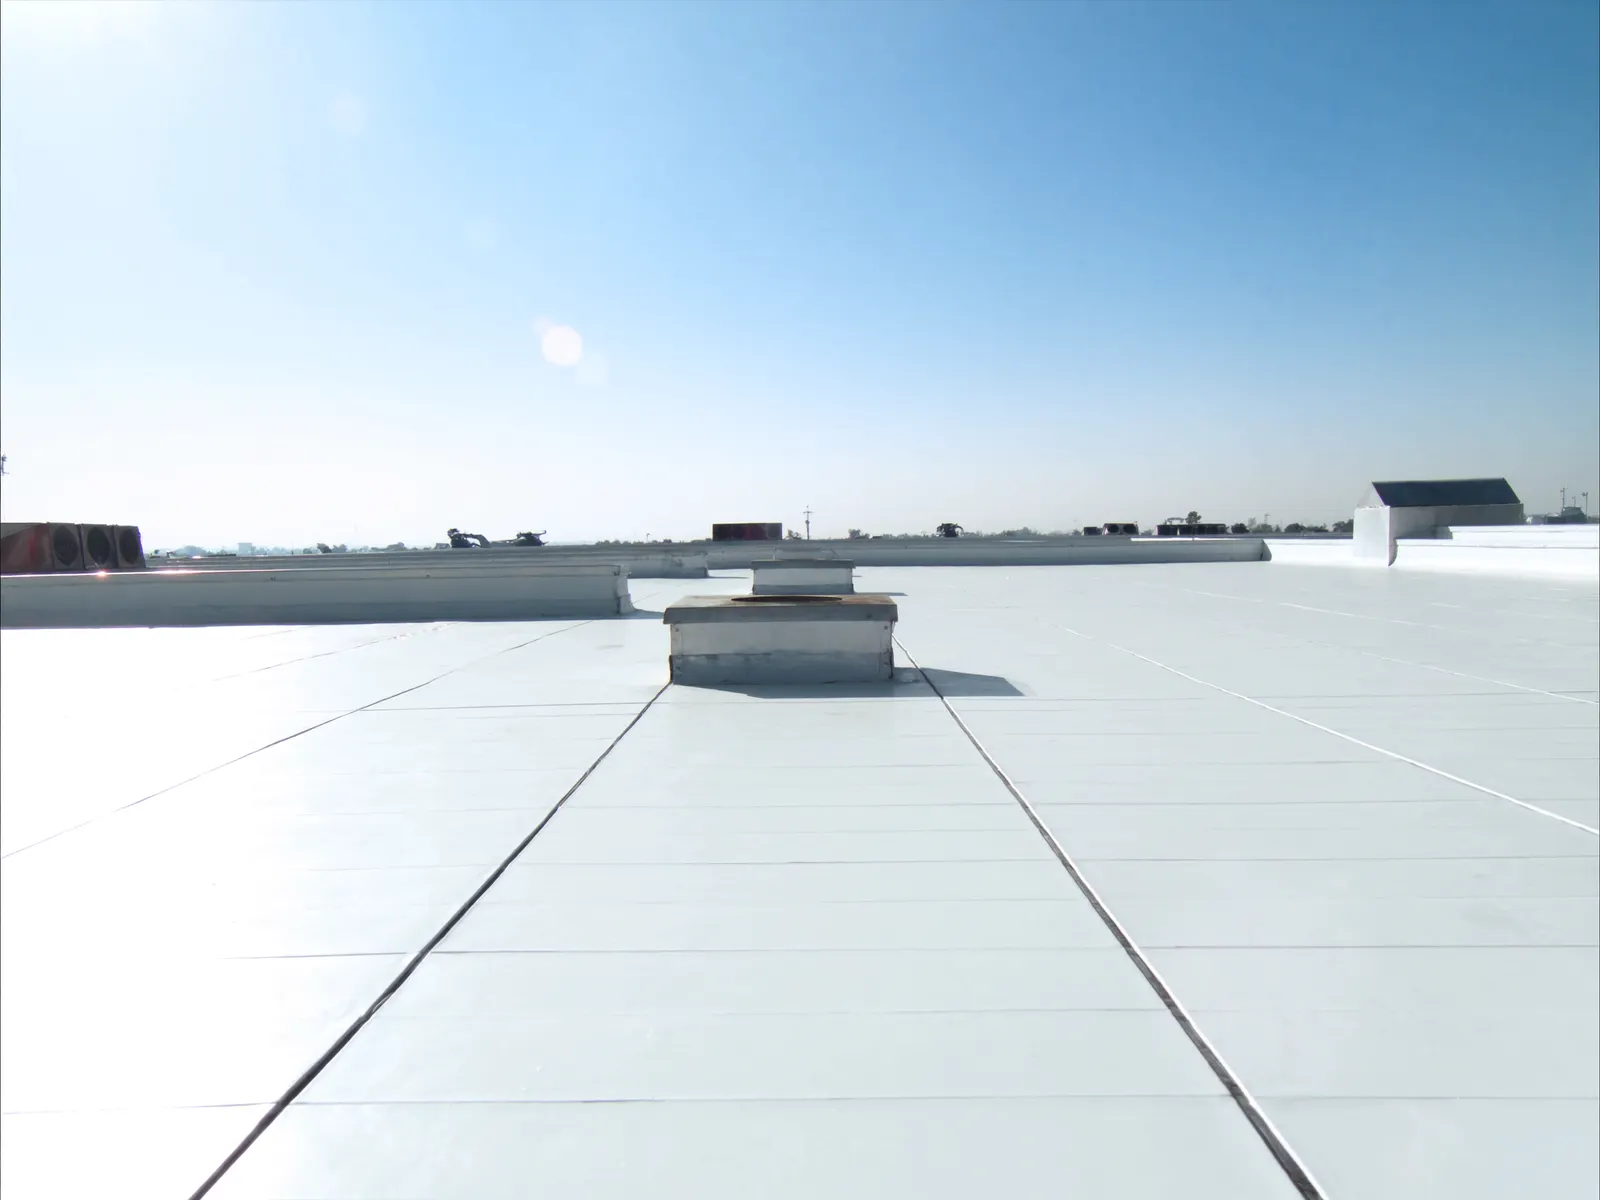
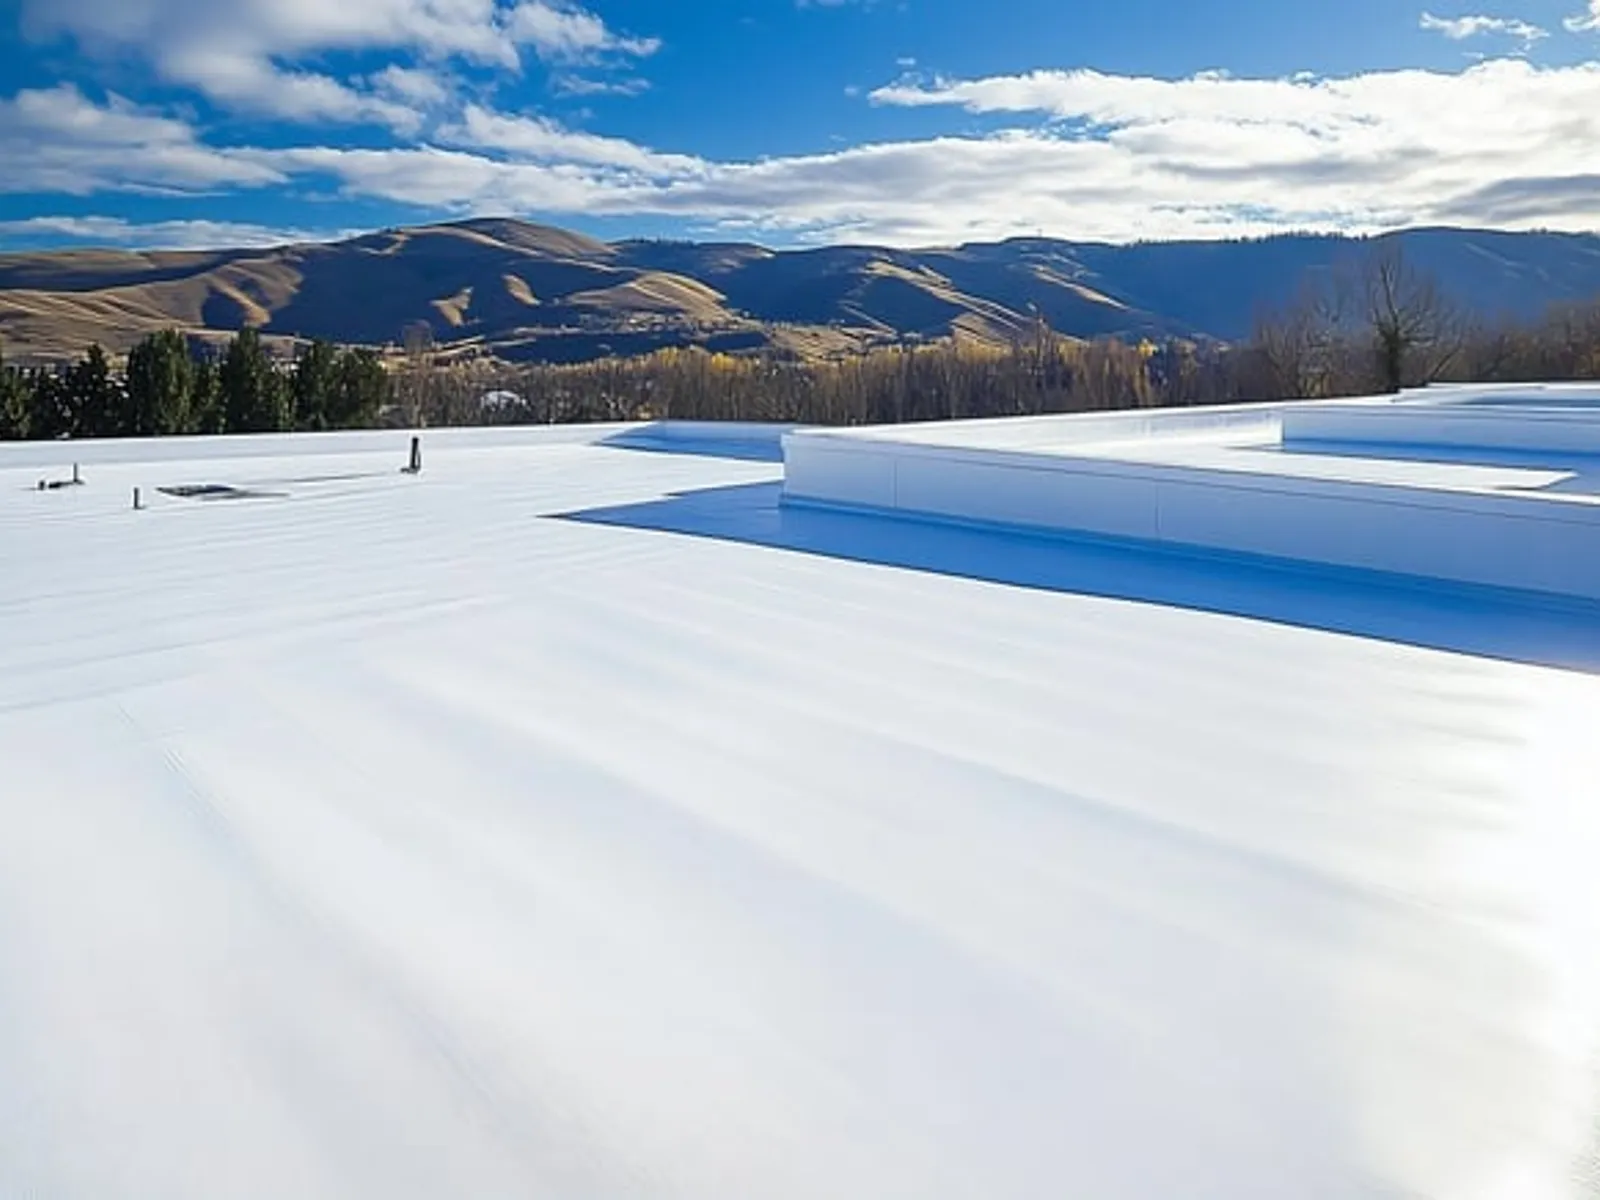
Service images: modified bitumen, PVC, commercial roof-replacement
Final three service-slot photos placed (owner-sourced): Polyglass
modified-bitumen membrane roof, white PVC single-ply in large welded
sheets, and a torch-down crew scene for commercial roof replacement.
All service-image slots now carry real product/marketing photography.

Claude-Session: https://claude.ai/code/session_0148j9icQsuYbw3TLjZbF6RA

diff --git a/src/content/service-images.ts b/src/content/service-images.ts
@@ -114,11 +114,11 @@ export const serviceImages: Record<string, ServiceImage | null> = {
   },
   "/commercial/pvc": {
     src: "/images/services/pvc-membrane.webp",
-    alt: "White PVC membrane roof on a commercial building",
+    alt: "White PVC single-ply membrane roof in large welded sheets on a commercial building",
   },
   "/commercial/modified-bitumen": {
     src: "/images/services/modified-bitumen.webp",
-    alt: "Granulated modified bitumen roofing on a commercial flat roof",
+    alt: "Modified bitumen membrane roof with a reflective cap sheet on a commercial building",
   },
   "/commercial/roof-coatings": {
     src: "/images/services/roof-coating-application.webp",
@@ -130,7 +130,7 @@ export const serviceImages: Record<string, ServiceImage | null> = {
   },
   "/commercial/roof-replacement": {
     src: "/images/services/commercial-roof-replacement.webp",
-    alt: "Commercial flat roof mid-replacement, old dark membrane beside new white membrane",
+    alt: "Roofer torch-applying a modified bitumen membrane during a commercial roof replacement",
   },
   "/commercial/roof-repair": {
     src: "/images/services/membrane-repair-welding.webp",

diff --git a/docs/OWNER-FEEDBACK-2026-07-05.md b/docs/OWNER-FEEDBACK-2026-07-05.md
@@ -24,14 +24,14 @@ Residential:
 - [ ] REMOVE SIDING ENTIRELY: we do NOT do siding (only fascia + soffit). Delete /residential/vinyl-siding + /residential/fiber-cement-siding pages, registry entries, footer links, images, copy mentions
 - [x] fascia + soffit photos look like metal → we mainly do WOOD: clean painted wood fascia + wood soffit photos
 - [x] ventilation: ridge vent (OC VentSure) + turbine/box/power gallery. ORIG: photo shows no ridge vent → proper black plastic ridge vent with ridge cap shingled over. ALSO add photos + copy for: turbines, box vents, power attic vents (gallery on ventilation page)
-- [ ] While changing cards, add photos to each corresponding service PAGE too (visual learners, product knowledge)
+- [x] Service cards + hero images updated (all slots now have real product/marketing photos)
 
 Commercial:
 - [x] TPO: weird grid lines → flat rolls look
 - [x] EPDM: janky lines → cleaner
-- [ ] PVC: way too many lines → large sheets
+- [x] PVC: large sheets (Adobe stock via owner)
 - [x] commercial metal-roofing: ugly/dirty → nicer color, black
-- [ ] commercial roof-replacement: horrible → crew blow-torching/working (torch-down scene)
+- [x] commercial roof-replacement: torch-down crew scene (ABC Supply)
 - [x] warehouse (industries): looks fake → more realistic, NO vehicles
 
 ## Batch 4 — /storm-damage page photo swaps (indices = current storm gallery order, 1-based)